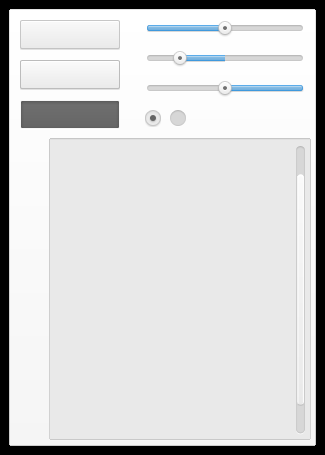
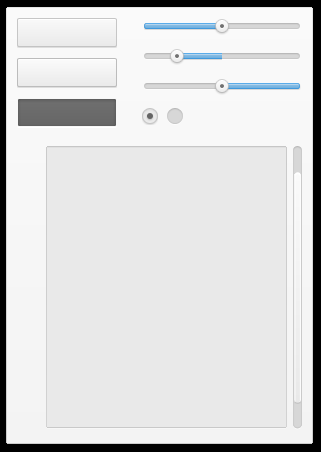
changed window to match artists original background color

Changed region(s): [[0.0, 0.0, 0.9969, 0.9912], [0.6854, 0.1858, 0.9346, 0.2168]]

diff --git a/cloudy_ui/window.rb b/cloudy_ui/window.rb
@@ -1,9 +1,9 @@
 class CloudyUi::Window
   def self.draw window, x, y, z, width, height
-    window.draw_quad x       ,y        ,0xFFFFFFFF,
-                     x+width ,y        ,0xFFFFFFFF,
-                     x+width ,y+height ,0xFFf5f5f5,
-                     x       ,y+height ,0xFFf5f5f5, z
+    window.draw_quad x       ,y        ,0xFFFAFAFA,
+                     x+width ,y        ,0xFFFAFAFA,
+                     x+width ,y+height ,0xFFf3f3f3,
+                     x       ,y+height ,0xFFf3f3f3, z
                      
     window.draw_line x, y       , 0xFFe4e4e4, x+width   , y      , 0xFFe4e4e4   ,z
     window.draw_line x, y+height, 0xFFCCCCCC, x+width   , y+height+1, 0xFFCCCCCC  ,z
